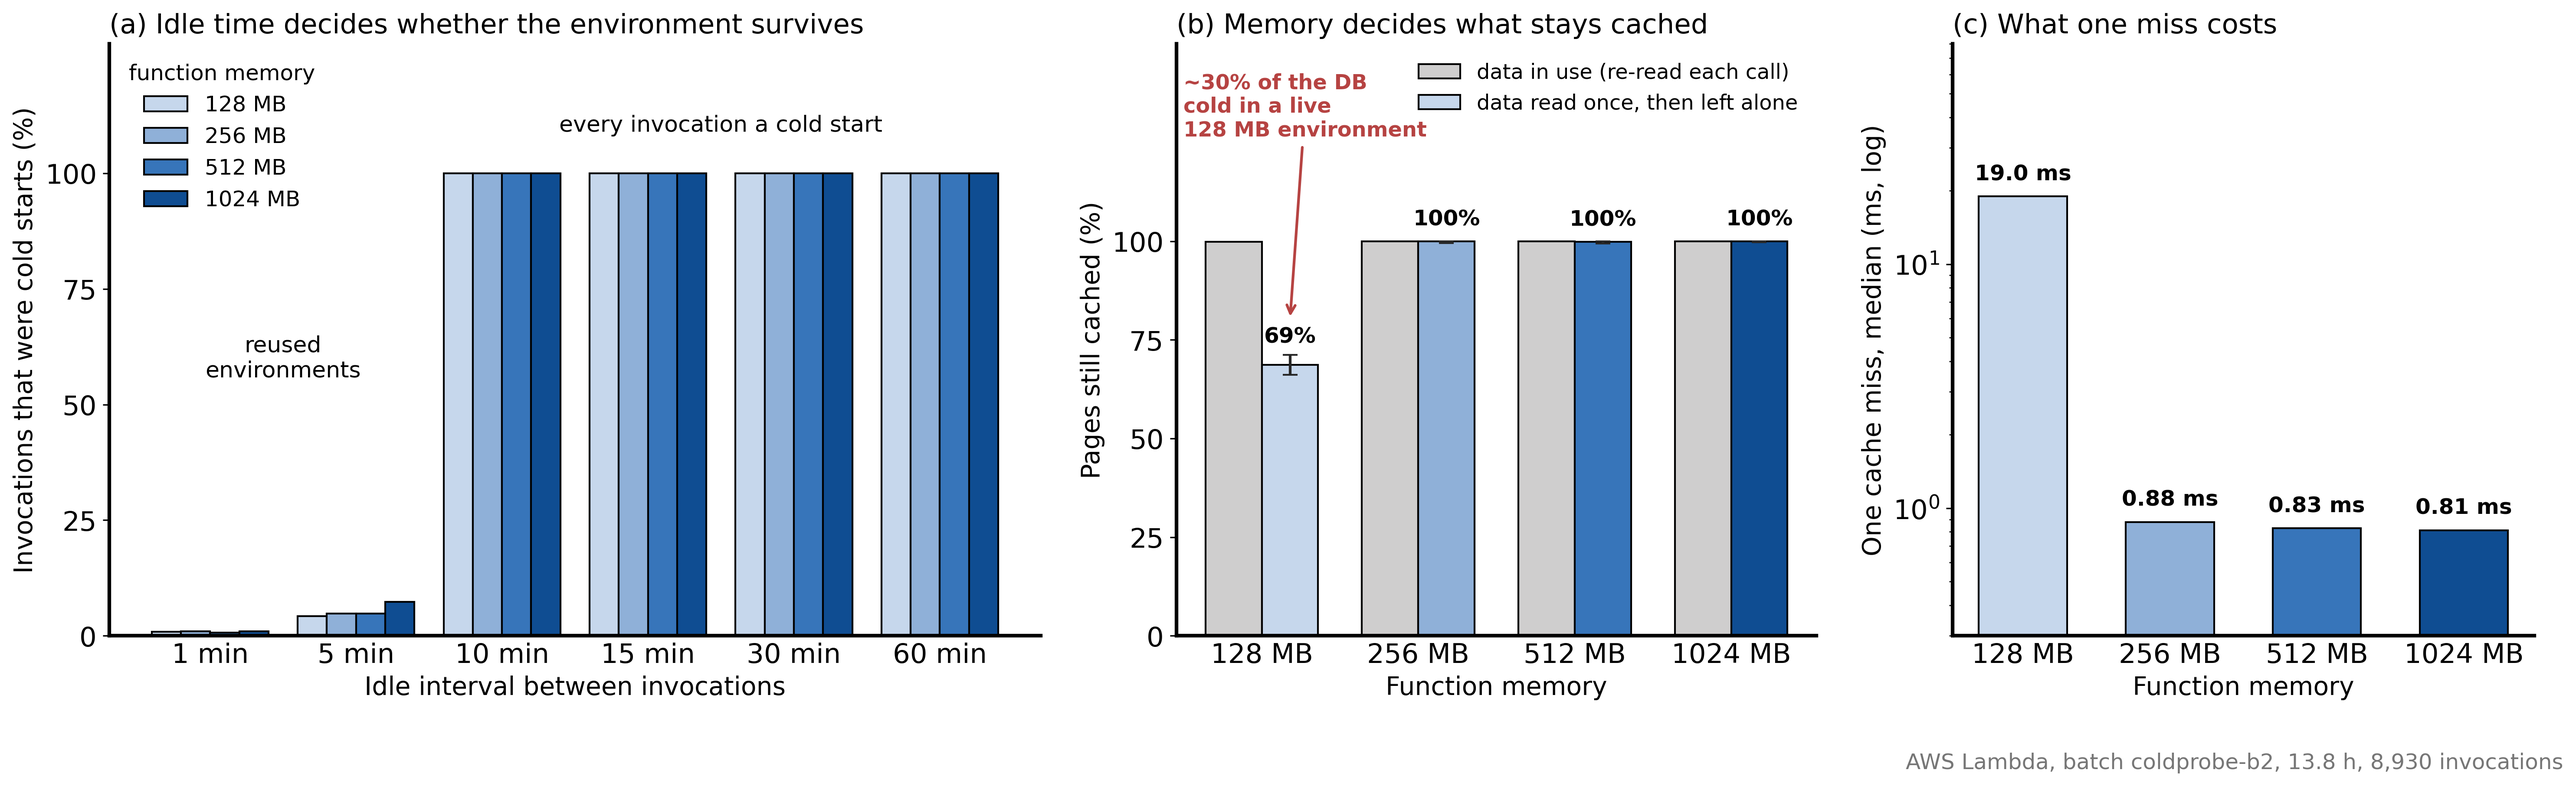
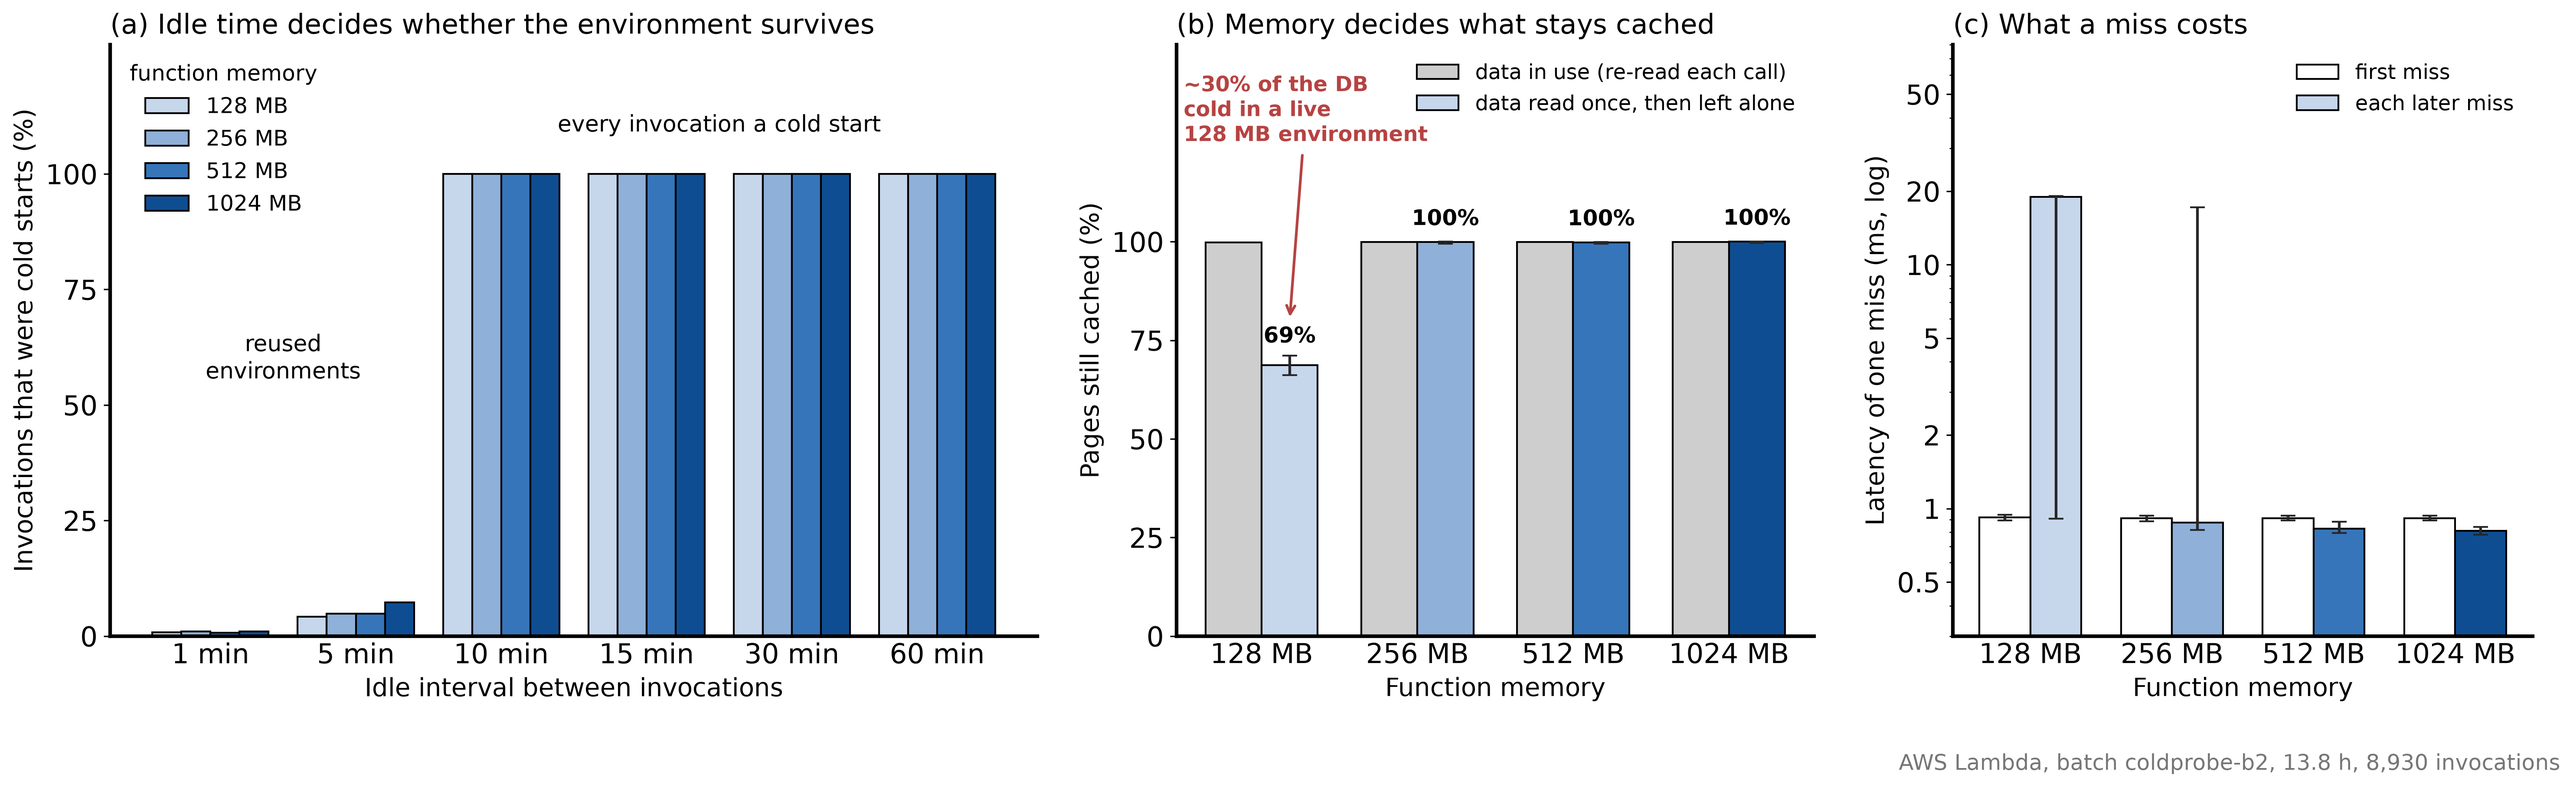
figures: Lambda panel (c) separates the first miss from later ones (batch coldprobe-b2)
Panel (c) plotted the median over all reads of each environment's first
probe as "one cache miss": 19.0 ms at 128 MB. Those reads are 100
back-to-back misses, and their cost depends on position: the first takes
about 0.9 ms at every memory size, while at 128 MB each later one waits
about 19 ms (57% of them over 5 ms; 27% at 256 MB), consistent with the
CPU share Lambda allocates by memory. The panel now shows the first and
the later misses of the reread probe side by side, median with IQR
whiskers. Data unchanged: results/lambda/b2/residency_20260930T021827Z.csv.

diff --git a/figures/20_lambda_residency.py b/figures/20_lambda_residency.py
@@ -11,9 +11,10 @@ Three panels, one per finding:
   (b) memory decides how much stays cached inside a live environment: data the
       function keeps using stays cached everywhere, but data read once and left
       alone is only about 70% cached at 128 MB, against 100% from 256 MB up
-  (c) one cache miss costs about 19 ms at 128 MB against under 1 ms elsewhere,
-      because squashfs decompression is CPU-bound and Lambda allocates CPU by
-      memory
+  (c) the first miss of a burst costs about 0.9 ms at every memory size, but at
+      128 MB each later one waits about 19 ms (median): squashfs decompression
+      is CPU-bound and Lambda allocates CPU by memory, so the quota runs out
+      after about one miss
 
 Styled with pub_style.py, the scientific-figure-making (figures4papers) house style.
 """
@@ -116,17 +117,28 @@ ax_b.set_ylim(0, 150); ax_b.set_yticks([0, 25, 50, 75, 100])
 ax_b.set_title("(b) Memory decides what stays cached", loc="left")
 ax_b.legend(loc="upper right", fontsize=11.5)
 
-# ---- (c) cost of one cache miss ----------------------------------------------
-miss = [st.median(v for r in rows if r["cold"] and r["m"] == m for v in r["lat"]) / 1000 for m in MEMS]
-ax_c.bar(xm, miss, 0.6, color=[MEM_COLOR[m] for m in MEMS], edgecolor="black", linewidth=1)
-for xi, v in zip(xm, miss):
-    ax_c.text(xi, v * 1.12, f"{v:.1f} ms" if v >= 10 else f"{v:.2f} ms", ha="center",
-              va="bottom", fontsize=12, fontweight="bold")
+# ---- (c) cost of a miss: the first of a burst, and each one after it ---------
+# The reread probe at an environment's first invocation is 100 back-to-back misses
+# (none of these reads hit). The first costs about 0.9 ms at every memory size;
+# later ones queue behind the CPU share Lambda allocates by memory, so the median
+# alone would hide that a quarter of them wait at 256 MB too: whiskers are the IQR.
+burst = {m: [r["lat"] for r in rows if r["mode"] == "reread" and r["cold"] and r["m"] == m] for m in MEMS}
+for k, (label, lo_i, hi_i) in enumerate([("first miss", 0, 1), ("each later miss", 1, None)]):
+    med, lo, hi = [], [], []
+    for m in MEMS:
+        v = sorted(x for lat in burst[m] for x in lat[lo_i:hi_i])
+        q1, q2, q3 = (v[int(p * (len(v) - 1))] / 1000 for p in (0.25, 0.5, 0.75))
+        med.append(q2); lo.append(q2 - q1); hi.append(q3 - q2)
+    ax_c.bar(xm + (k - 0.5) * wb, med, wb, color="white" if k == 0 else [MEM_COLOR[m] for m in MEMS],
+             edgecolor="black", linewidth=1, label=label, yerr=[lo, hi],
+             error_kw=dict(ecolor=PALETTE["ink"], capsize=4, lw=1.5))
 ax_c.set_yscale("log"); ax_c.set_ylim(0.3, 80)
+ax_c.set_yticks([0.5, 1, 2, 5, 10, 20, 50]); ax_c.set_yticklabels(["0.5", "1", "2", "5", "10", "20", "50"])
 ax_c.set_xticks(xm); ax_c.set_xticklabels([f"{m} MB" for m in MEMS]); ax_c.tick_params(axis="x", length=0)
 ax_c.set_xlabel("Function memory")
-ax_c.set_ylabel("One cache miss, median (ms, log)")
-ax_c.set_title("(c) What one miss costs", loc="left")
+ax_c.set_ylabel("Latency of one miss (ms, log)")
+ax_c.set_title("(c) What a miss costs", loc="left")
+ax_c.legend(loc="upper right", fontsize=11.5)
 
 fig.tight_layout(pad=1.5, rect=(0, 0.045, 1, 1))
 fig.text(0.995, 0.005, f"AWS Lambda, batch coldprobe-b2, 13.8 h, {len(rows):,} invocations",
